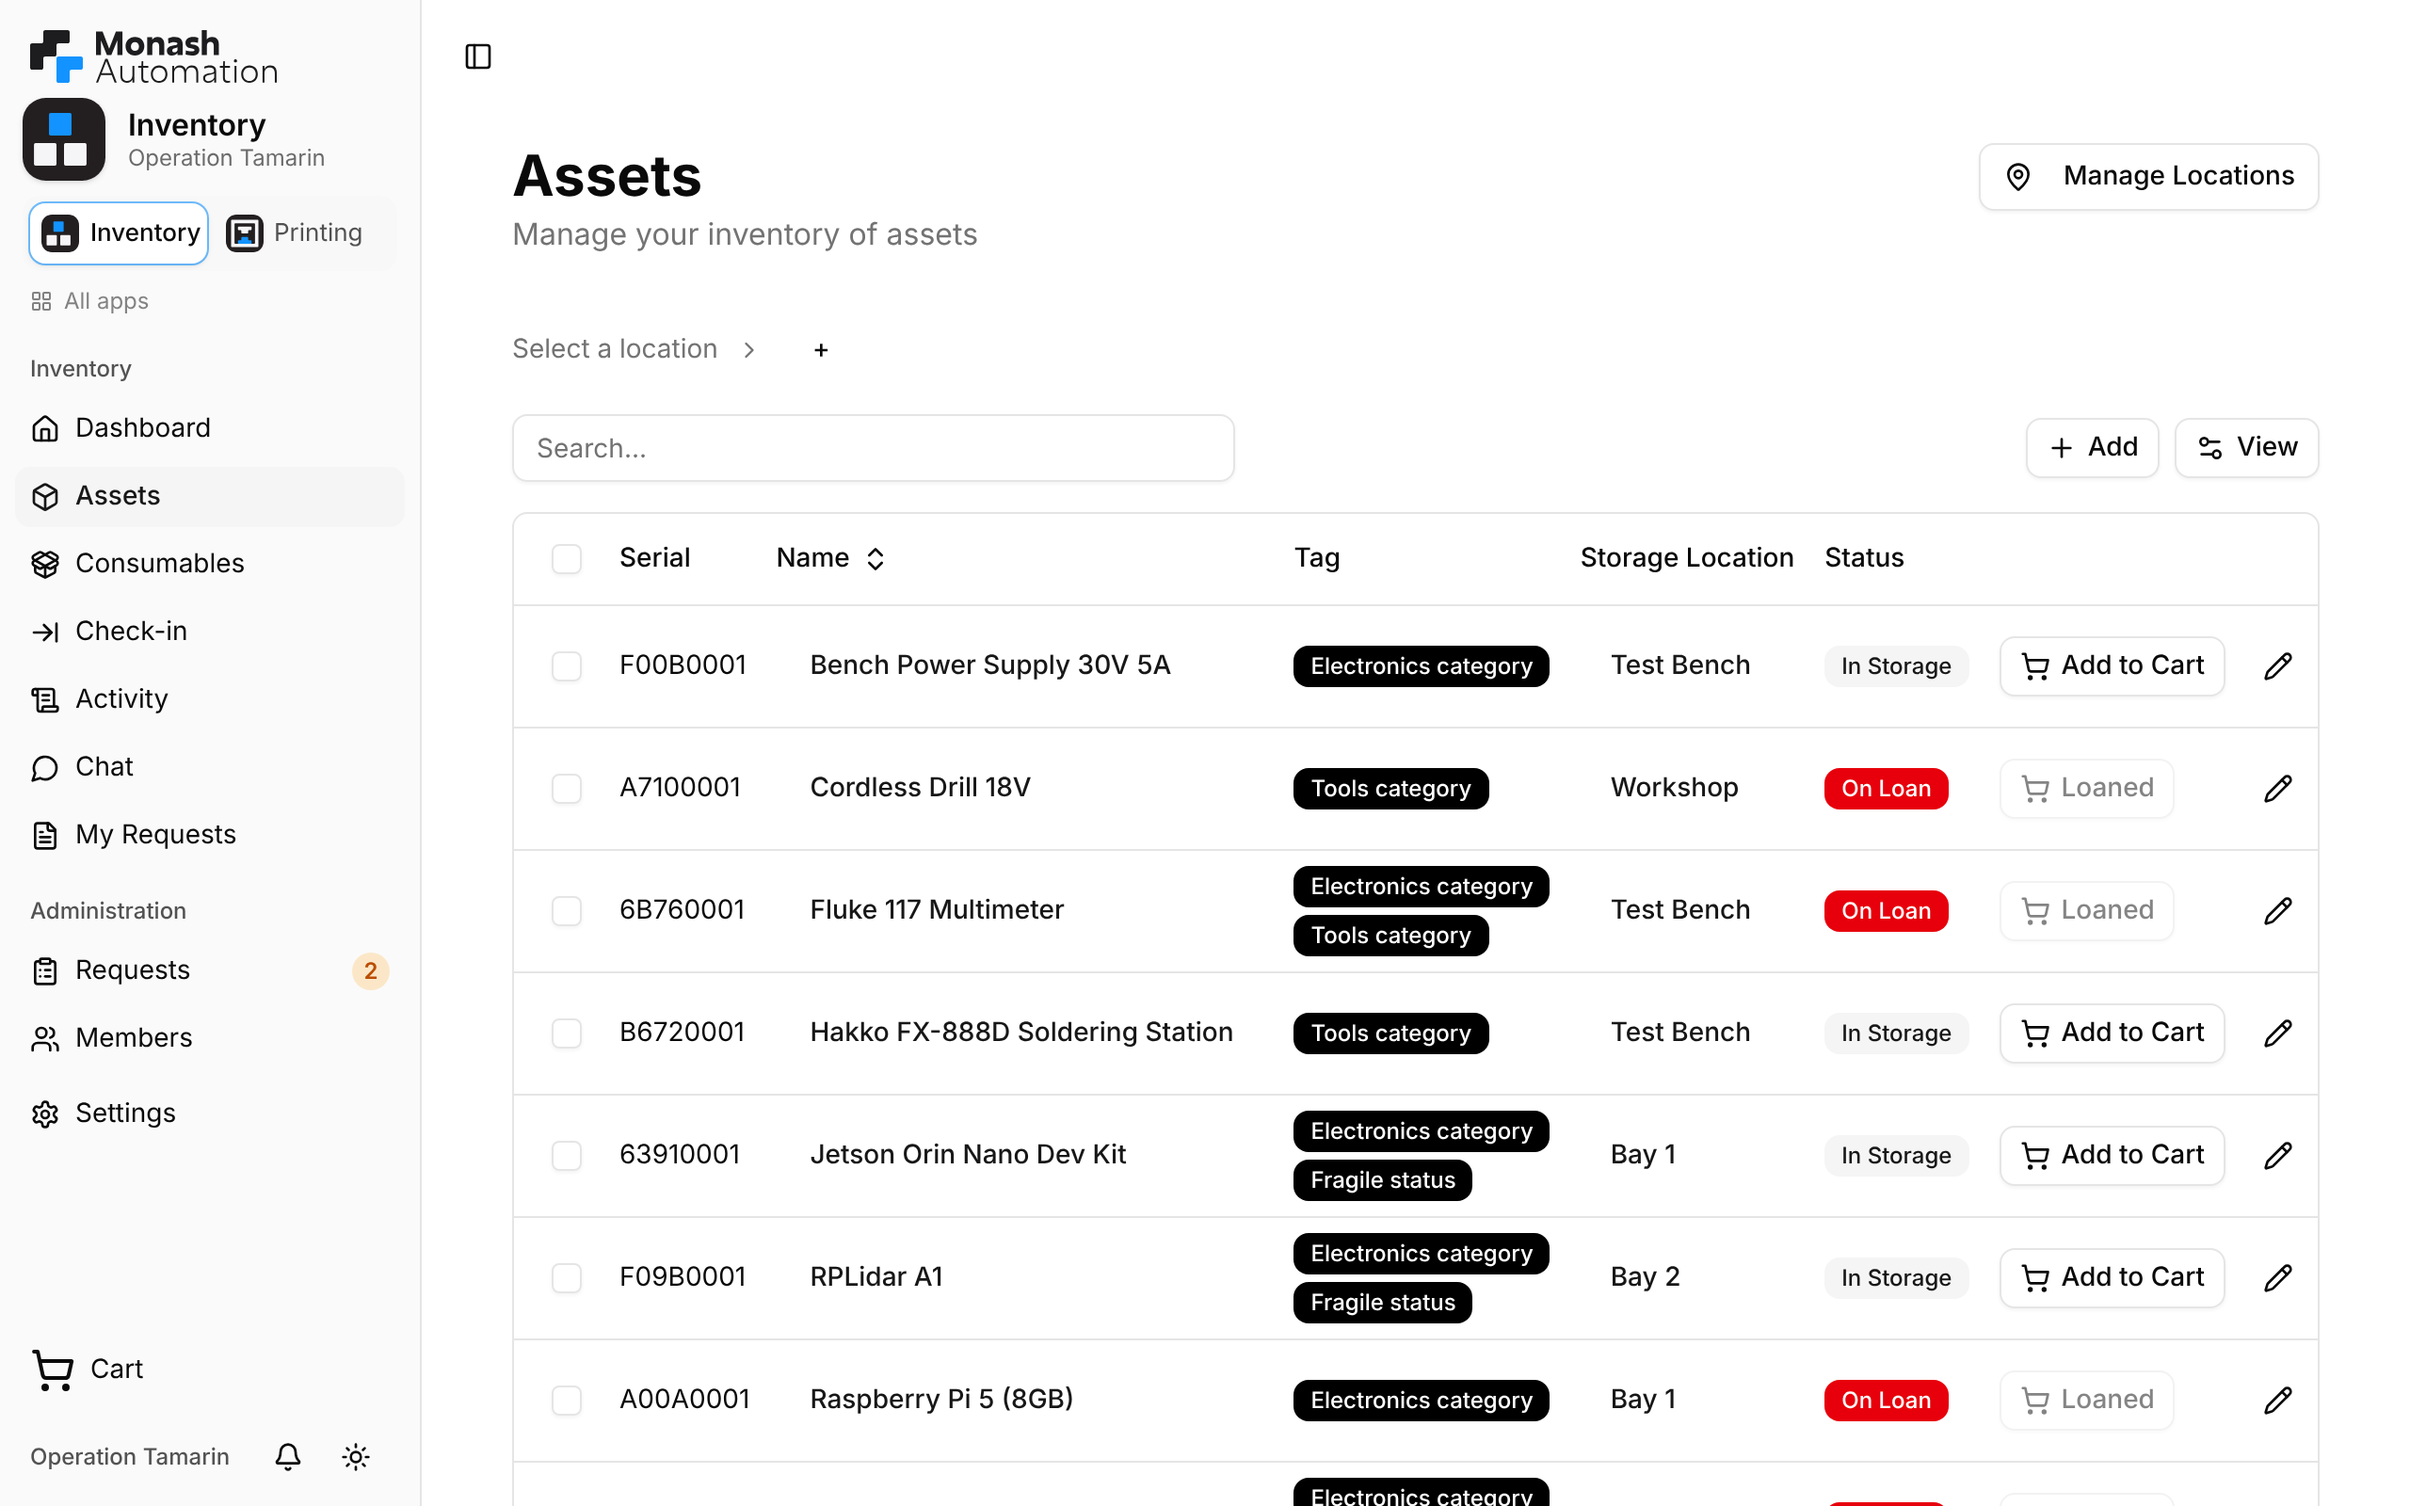
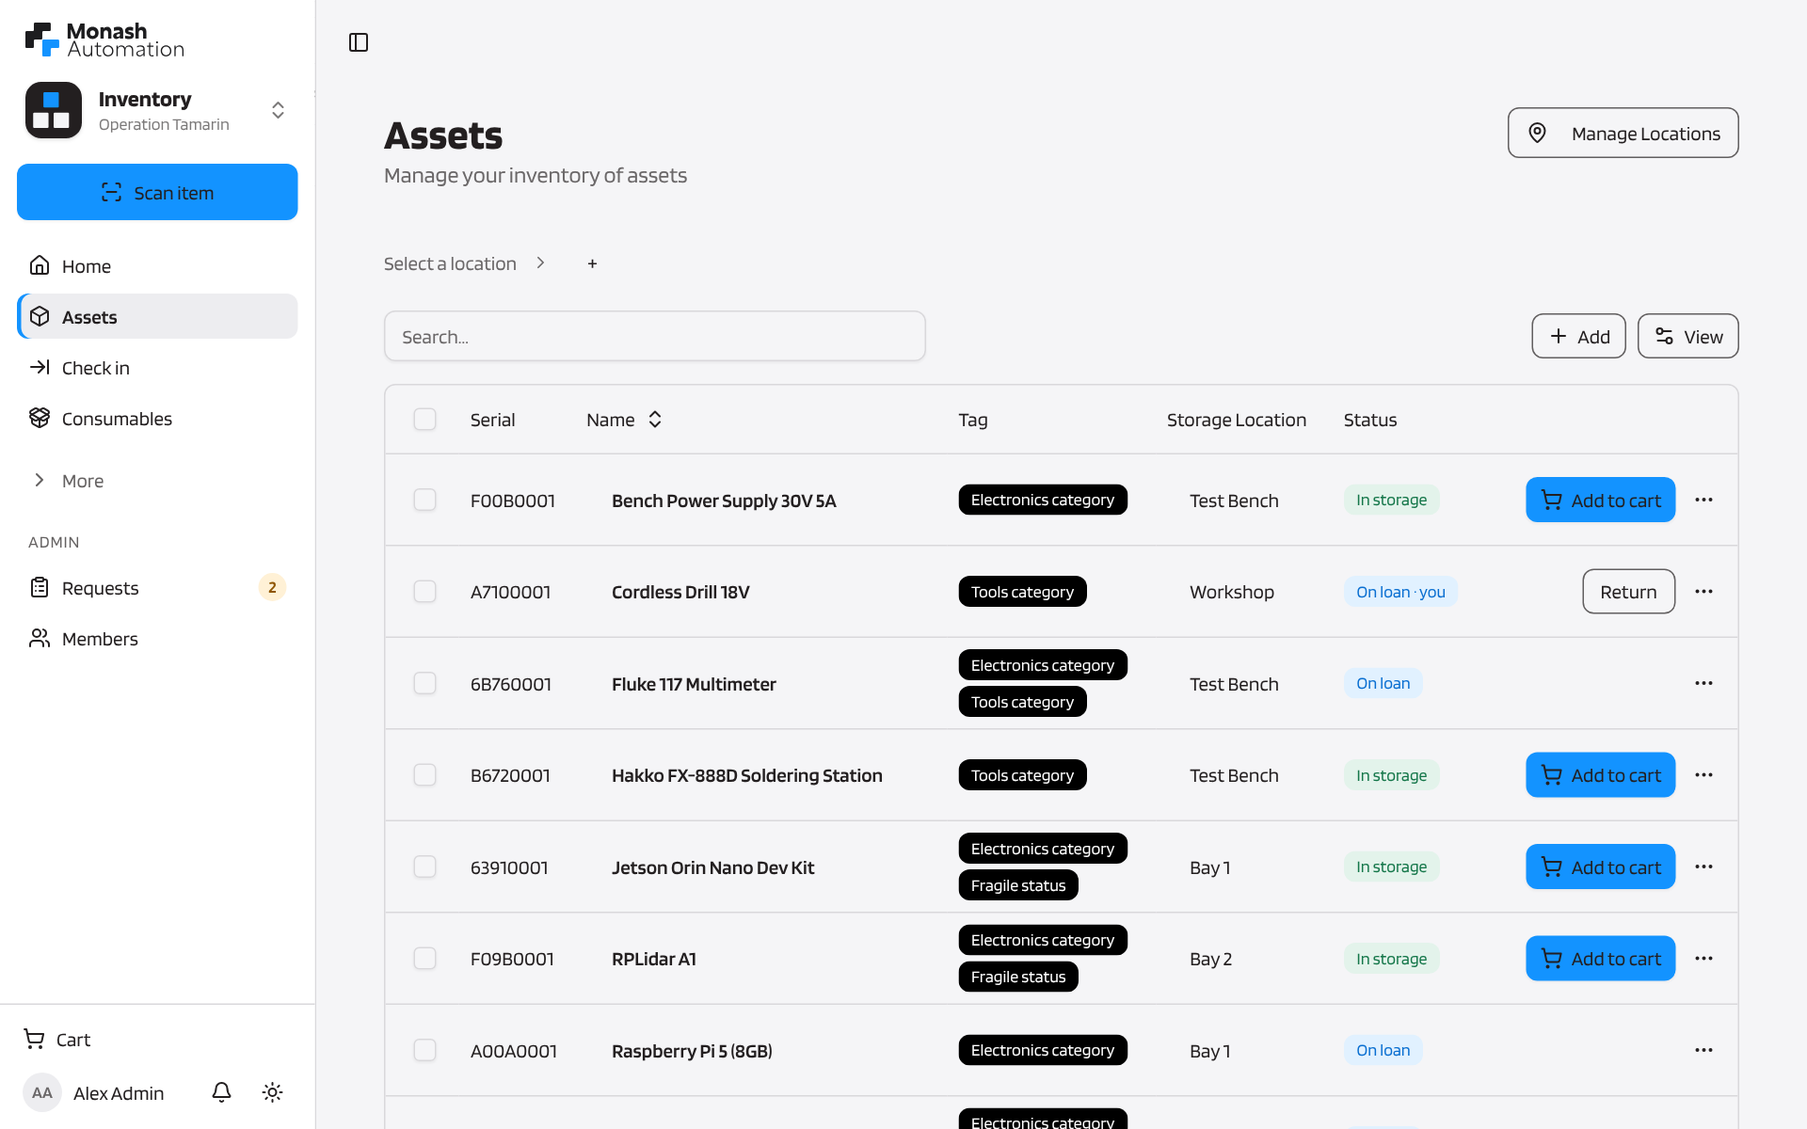
docs: add UI brand guidelines and refresh README screenshots
Record the design decisions (Blue primary button with Onyx text; no program colour for Inventory or Printing, which are tools) with the palette, typography, button hierarchy, navigation tiers, row and item-page patterns and a checklist for new screens. Link them from the README and replace its screenshots with the new UI, adding My prints and the phone menu.

Claude-Session: https://claude.ai/code/session_011n43unsS15ev6CCsgCBQ3M

diff --git a/docs/ui-brand-guidelines.md b/docs/ui-brand-guidelines.md
@@ -1,0 +1,116 @@
+# UI brand guidelines
+
+How the Inventory and Printing apps should look and behave. These apply to every new screen. They follow the **Monash Automation Brand Identity Guidebook (v1.0)**, and record the decisions made for these two apps.
+
+Inventory and Printing are **tools**, not programs, so both use the Monash Automation main colours exactly as the guidebook defines them.
+
+## Decisions
+
+| Date | Decision | Why |
+|---|---|---|
+| 2026-11-17 | **The primary button is Automation Blue** (`#1393FF`) **with Onyx text** (`#231F20`). | The guidebook asks for Blue as the accent. Onyx on Blue is 5.2 : 1 contrast and passes; white on Blue is 3.2 : 1 and does not, so never put white text on Blue. |
+| 2026-11-17 | **Printing has no program colour.** Both apps use Onyx, Platinum and Blue. | The guidebook reserves program colours (yellow, purple, green, coral) for program-specific work. These apps are tools, so they stay on the main palette. |
+| 2026-11-17 | Navigation is tiered by how often places are used; one primary action per screen; one action per table row. | Keeps the apps simple. Daily things are visible, rare things are one click away. |
+
+If you want to change one of these, add a new row with the date and reason instead of editing the old one.
+
+## Colour
+
+Blue is an **accent only**: the primary button, the active menu marker, links and focus. It is never a page or card background. Onyx and Platinum carry the interface.
+
+| Token | Light | Dark | Used for |
+|---|---|---|---|
+| `background` | `#F5F5F7` Platinum | `#1A1718` | Page |
+| `card`, `sidebar` | `#FFFFFF` | `#262223` | Cards, sidebar, menus |
+| `foreground` | `#231F20` Onyx | `#F5F5F7` | Text |
+| `muted-foreground` | `#6B6869` | `#A9A5A6` | Secondary text |
+| `primary` | `#1393FF` Blue | `#1393FF` | Primary button, active marker, focus ring |
+| `primary-foreground` | `#231F20` Onyx | `#231F20` | Text on Blue |
+| `link` | `#0A6FD1` | `#4DB0FF` | Text links (Blue itself is too light for small text on white) |
+| `border` | `#D9D8DB` | white 12% | Lines |
+
+Dark mode uses neutrals derived from Onyx. Tokens live in `src/index.css`; use the Tailwind names (`bg-primary`, `text-muted-foreground`, `text-link`) and never hard-code hex values in components.
+
+### Status colours
+
+Meaning, not decoration. Use the `Badge` variants:
+
+| Variant | Use | Example |
+|---|---|---|
+| `success` (green) | Fine, available | In storage, Ready |
+| `info` (blue) | Normal activity | **On loan**, Printing |
+| `warning` (amber) | Needs a look soon | Low stock, pending count |
+| `danger` / destructive (red) | Needs action now | Overdue, failed, needs attention |
+
+Being on loan is normal, so it is **blue, not red**. Do not use red for anything that is not an error or a risk.
+
+## Typography
+
+- **Blinker** (400, 600, 700) is the interface font. Files are in `src/assets/fonts/blinker/` (SIL Open Font License, included).
+- **Source Sans Pro** is the fallback when Blinker is unavailable, as the guidebook specifies. Both are set in `--font-sans`.
+- **Excon** is for the stacked logo only. It is not used in the interface.
+- **Glacial Indifference** (short highlighted lines and captions only, never paragraphs or titles) is in the guidebook but we have no font files for it, so it is not used. If it is added later, keep it to that role.
+- Titles use weight 700, labels 600, body 400. Use `tabular-nums` for numbers that line up in columns.
+
+## Logos
+
+Use the supplied logo files unmodified; never redraw or recolour them.
+
+- Header: `Horizontal Black & Blue.svg` on light, `Horizontal White & Blue.svg` on dark (`src/assets/`).
+- App tiles: `src/assets/ma-inventory.svg` and `src/assets/ma-3d-print.svg`.
+- The browser tab icon follows the app; Inventory keeps the default favicon.
+
+## Buttons
+
+At most **one primary button per area**: the sidebar's app action (Scan item, New print) is always there, so inside the page keep to the single main action (or one per table row). Do not repeat the sidebar action as a second Blue button on the page. Everything else is lower in the hierarchy.
+
+| Level | Variant | Look | Use |
+|---|---|---|---|
+| Primary | `default` | Blue fill, Onyx text | The one thing you came to do: Check out, Save, New print |
+| Secondary | `outline` | Onyx outline | Alternatives: Return, Print label, Cancel |
+| Quiet | `ghost` / `link` | Text only | Low-key actions, links |
+| Danger | `danger` | Red outline | Risky action next to normal ones |
+| Confirm | `destructive` | Red fill | **Only** on the final confirm step of a delete or revoke |
+
+Rarely used or risky actions (edit, delete, upload image) go in a "⋯" menu, not beside the main action. Touch targets are at least 44 px on phones. Focus is always visible (Blue ring).
+
+## Navigation
+
+Items are grouped by how often they are used. Keep the daily list to **four items at most**; anything occasional goes under **More**.
+
+| | Inventory | Printing |
+|---|---|---|
+| **Primary action** | Scan item | New print |
+| **Daily** | Home, Assets, Check in, Consumables | Overview, Monitor, Queue, My prints |
+| **More** (collapsed) | My requests, Activity, Chat | Send G-code, Cameras, History, Stats |
+| **Admin** (admins only) | Requests (pending badge), Members | Printers |
+| **Footer** | Cart, account, notifications, theme | account, notifications, theme |
+
+- The configuration is in `src/components/sidebar/nav-config.ts`. Change it there, not in the components.
+- The app switcher (top of the sidebar) switches between Inventory and Printing and links to the Authentik library.
+- Adding a page: ask "will most people use this every visit?" Only then does it go in Daily. Otherwise put it in More, or reach it from a related page.
+- On phones the sidebar becomes a bottom bar: three daily tabs, the primary action in the middle, and More.
+- Do not use icon-only navigation on desktop; labels are always shown.
+
+## Tables and rows
+
+One action per row, chosen for what is possible with that item:
+
+- In storage: **Add to cart** (primary).
+- Held by you: **Return**.
+- Held by someone else, or lab use: no button.
+- Admins get a "⋯" menu with Edit and Delete.
+
+## Item page
+
+The page a phone lands on after scanning a QR label. From top to bottom: name, serial and location, a status chip, and **one primary action** (Check out, or Check in if you hold it). Then details, recent loan history, tags and notes. The QR code, Copy link and Print label share one small card. Admin tools (image, assign, revoke, restock) stay out of the way.
+
+## Checklist for a new screen
+
+- [ ] One primary (Blue) button in the page area, and it does not repeat the sidebar action.
+- [ ] Colours come from tokens; no hex values in components.
+- [ ] Status uses the `Badge` variants; red only where action is needed.
+- [ ] Works in light and dark mode.
+- [ ] Usable at phone width, with 44 px touch targets.
+- [ ] Its menu item sits in the right tier (see Navigation).
+- [ ] Text on Blue is Onyx.

diff --git a/README.md b/README.md
@@ -39,15 +39,20 @@ Both are launched from [Authentik](https://goauthentik.io/), which is also the o
 - **MCP endpoint** at `/mcp` for AI integration, and a Prometheus `/metrics` endpoint
 - **Dark mode**: Follows the system preference
 
+## UI and brand
+
+The look and behaviour of both apps follows the Monash Automation brand guidelines. See [`docs/ui-brand-guidelines.md`](docs/ui-brand-guidelines.md) for the colours, fonts, button hierarchy, navigation tiers and a checklist for new screens.
+
 ## Screenshots
 
 Captured from the running app with sample data (not real inventory).
 
 | | |
 |---|---|
-| ![Dashboard Home](docs/screenshots/dashboard.png) **Home**: quick actions, your loans and requests | ![Admin overview](docs/screenshots/admin-overview.png) **Admin overview**: pending requests, low stock, activity |
-| ![Assets](docs/screenshots/assets.png) **Assets**: searchable table with loan status and add-to-cart | ![Item page with QR](docs/screenshots/item-qr.png) **Item page**: details, QR code and label printing |
+| ![Home](docs/screenshots/dashboard.png) **Home**: the app's primary action, daily menu, your loans and requests | ![Admin overview](docs/screenshots/admin-overview.png) **Admin overview**: pending requests, low stock, activity |
+| ![Assets](docs/screenshots/assets.png) **Assets**: one action per row (Add to cart, Return, or none) | ![Item page](docs/screenshots/item-qr.png) **Item page**: status, a single primary action, history, QR and label printing |
 | ![Restock requests](docs/screenshots/restock-requests.png) **Requests**: Order, Receive or Cancel | ![Check in](docs/screenshots/check-in.png) **Check-in**: return loans, with a QR scan option |
+| ![My prints](docs/screenshots/my-prints.png) **My prints** (Printing app): your queued and sent jobs | <img src="docs/screenshots/phone-menu.png" alt="Phone menu" width="220"> **On a phone**: bottom bar with Scan in the middle, full menu behind More |
 
 ## How QR codes work
 
